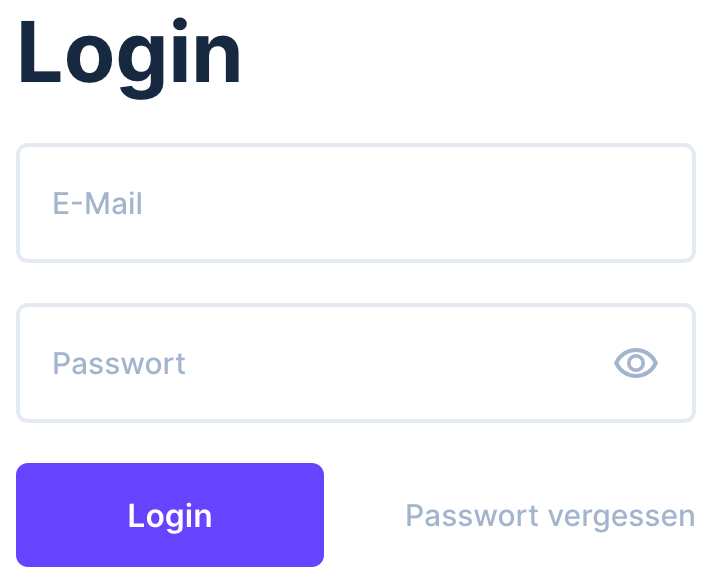
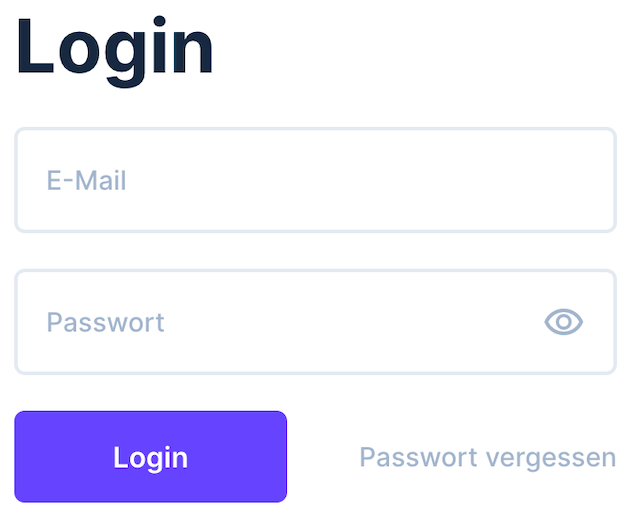
Revise README and update docs images
Restructure README to introduce the administration tool, explain capabilities, login and publishing workflow, and better organize sections for Posts and Pages. Updated and added screenshots (updated docs/login.png; added docs/github.png, docs/input.png, docs/pages.png, docs/posts.png, docs/publish.png) and removed obsolete images (docs/navigation.png, docs/neuer-post.png, docs/pflichtfelder.png). Small layout tweaks: replace bare image links with responsive <img> tags and clearer instructions to improve onboarding and documentation clarity.

diff --git a/README.md b/README.md
@@ -6,32 +6,54 @@ Dies ist für die Website der [Chorgemeinschaft Köngen](https://www.chorgemeins
 
 Alle Inhalte sind unter [chorgemeinschaft.fhoss.de](https://chorgemeinschaft.fhoss.de) zum bearbeiten.
 
-## Login
+### Was ist ein Verwaltungstool?
 
-Mit Zugangsdaten [hier](https://chorgemeinschaft.fhoss.de/admin/login) anmelden.
+Das Verwaltungstool ist ein einfaches System, mit dem Sie die Inhalte der Website bearbeiten können - ganz ohne Programmierkenntnisse. Sie können sich das wie eine Art "Word für Websites" vorstellen.
 
-![](./docs/login.png)
+**Was können Sie damit machen?**
+
+- Neue Beiträge schreiben und veröffentlichen
+- Texte und Bilder bearbeiten
+- Bestehende Seiten aktualisieren
+- Inhalte archivieren
+
+**Wie funktioniert es?**
+Sie melden sich einfach mit Ihren Zugangsdaten an und sehen dann eine übersichtliche Oberfläche mit allen Inhalten der Website. Dort können Sie direkt in den Feldern schreiben, Bilder hochladen und Änderungen speichern. Die Änderungen werden dann automatisch auf der echten Website sichtbar.
+
+## Anmelden
+
+Mit Zugangsdaten [hier](https://chorgemeinschaft.fhoss.de/admin/login) mit E-Mail und Passwort anmelden.
+
+<img src="./docs/login.png" alt="Login Screen" style="width: 100%; max-width: 350px; height: auto;" />
 
 ## Navigation - Menüpunkte
 
-Posts sind Beiträge, die mit Bild unter "Alle Beiträge" veröffentlicht werden.
+### Beiträge (Posts)
 
-Pages sind statische Seiten, die im Menü der Website verlinkt sind.
+<img src="./docs/posts.png" alt="Login Screen" style="width: 100%; height: auto;" />
 
-![](./docs/navigation.png)
+### Seiten (Pages)
 
-## Posts - Beiträge
+<img src="./docs/pages.png" alt="Login Screen" style="width: 100%; height: auto;" />
 
-Beiträge (Posts) sind später auf der Seite unter [https://chorgemeinschaft-koengen.de/posts/](https://chorgemeinschaft-koengen.de/posts/) zu finden.
+### Neuer Beitrag/Seite anlegen
 
-### Neuer Beitrag
+Zum Anlegen eines neuen Beitrags oder einer Seite auf die entsprechende Kategorie klicken und dann "Element erstellen" klicken.
 
-Zum Anlegen eines neuen Beitrags auf "Posts" und dann "Element erstellen" klicken.
+Alle Pflichtfelder (mit \* markiert) ausfüllen und auf "Speichern" klicken.
+Jedes Feld hat eine kleine Erklärung, was dort eingetragen werden soll.
 
-![](./docs/neuer-post.png)
+<img src="./docs/input.png" alt="Login Screen" style="width: 100%; max-width: 400px; height: auto;" />
 
-Danach alle Pflichtfelder ausfüllen (Diese werden mit Sternchen gekennzeichnet und werden vom System überprüft):
+## Veröffentlichen
 
-![](./docs/pflichtfelder.png)
+Wenn man einen Beitrag oder eine Seite fertig bearbeitet hat, muss dieser noch veröffentlicht werden.
+Dazu auf den Button "Veröffentlichen" klicken.
 
-Eine Erklärung jedes Feldes steht direkt unter dem Eingabefeld.
+<img src="./docs/publish.png" alt="Login Screen" style="width: 100%; height: auto;" />
+
+Nun kann man mit klick auf den Hasen oben links direkt auf die Übersichtsseite gelangen auf denen die aktuellen und vergangenen Veröffentlichungs-Prozesse angezeigt werden.
+Wenn diese Erfolgreich waren, ist ein grüner Haken zu sehen.
+Dann sollte die [Webseite](https://www.chorgemeinschaft-koengen.de) die Änderungen anzeigen.
+
+<img src="./docs/github.png" alt="Login Screen" style="width: 100%; height: auto;" />
